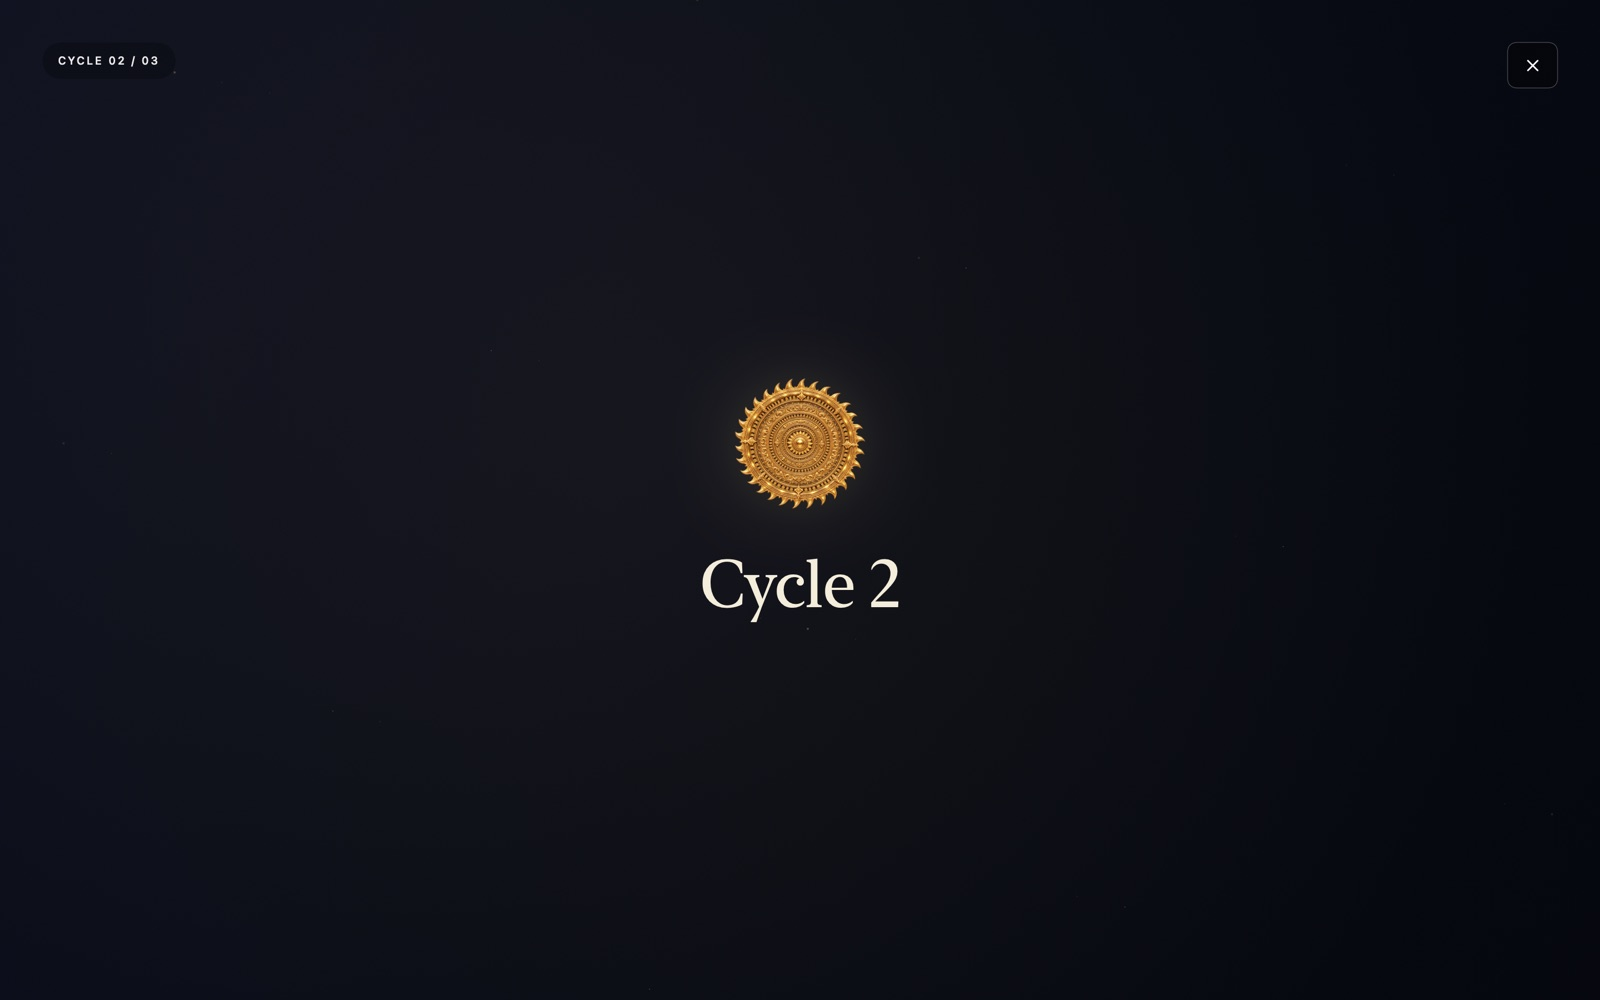
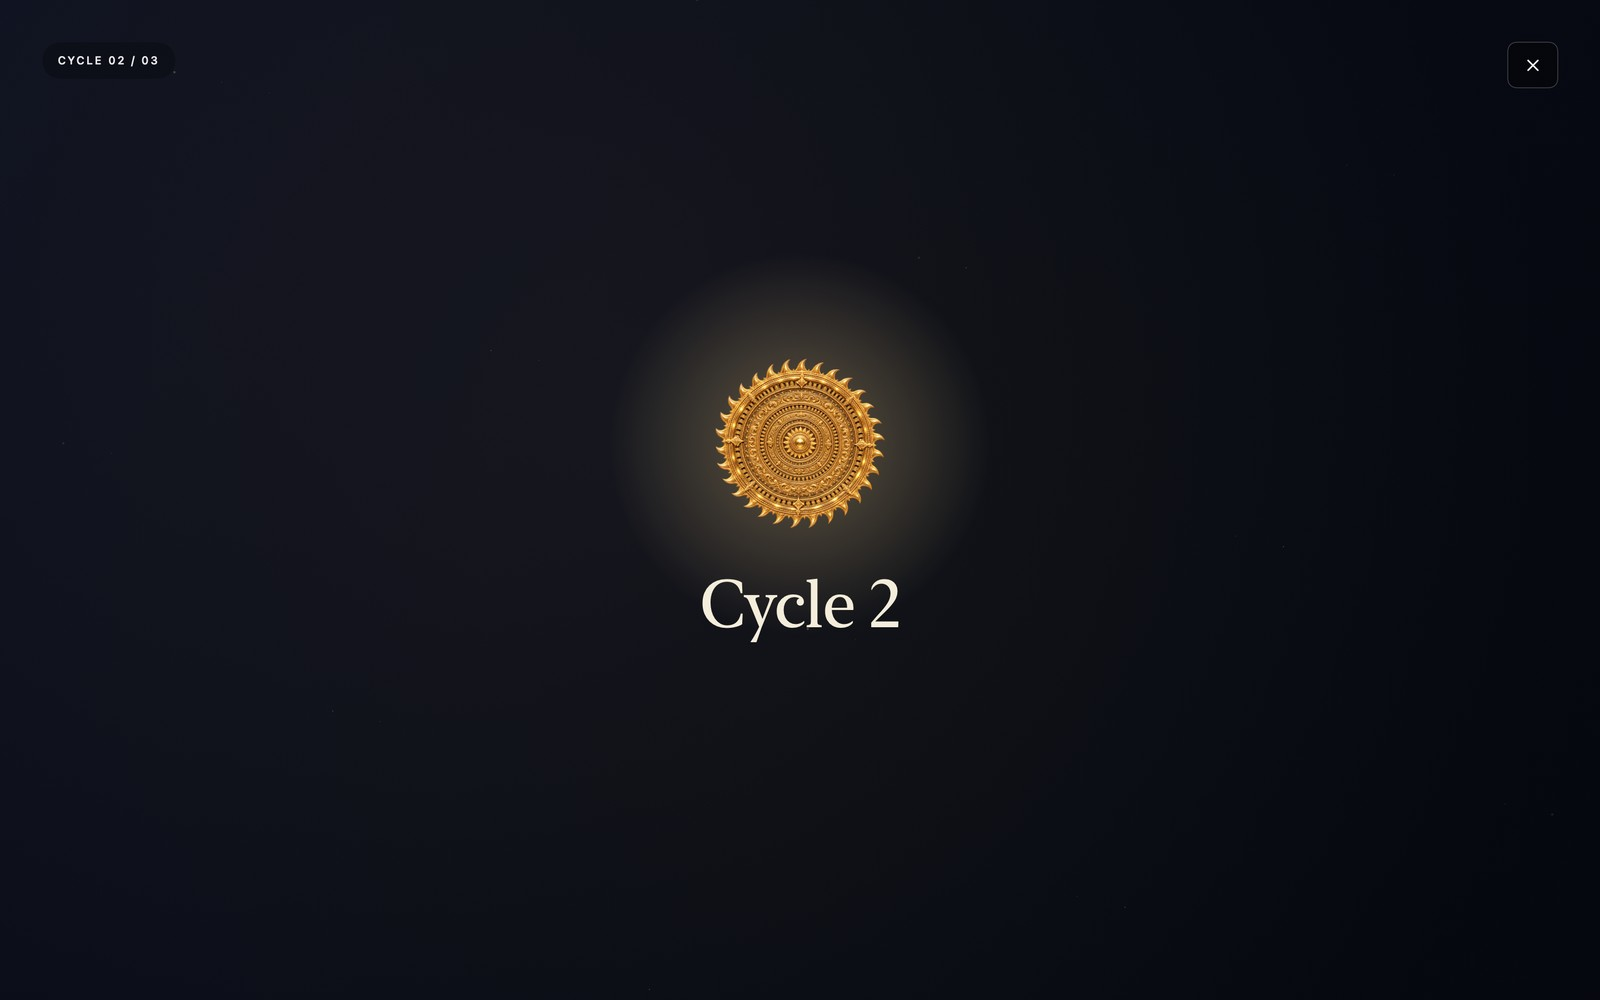
Exclude freestyle pauses from practice time and enhance cycle chakra

Changed region(s): [[0.4062, 0.31, 0.5938, 0.651]]

diff --git a/Tests/MeditationCoreTests/SessionEngineTests.swift b/Tests/MeditationCoreTests/SessionEngineTests.swift
@@ -736,9 +736,68 @@ final class SessionEngineTests {
         engine.nextStage(at: 4150)
         Check.equal(engine.phase, .complete)
         Check.equal(engine.completedCycles, 2)
-        // 4004 + 4 × 7 s in cycle 1, then 4 + 40 paused + 10 + 4 × 7 s in cycle 2; no card counts.
-        Check.equal(engine.activeSeconds, 4114)
-        Check.equal(engine.stepSeconds, [[4004, 7, 7, 7, 7], [54, 7, 7, 7, 7]])
+        // 4004 + 4 × 7 s in cycle 1, then 4 + 10 + 4 × 7 s in cycle 2; no pause or card counts.
+        Check.equal(engine.activeSeconds, 4074)
+        Check.equal(engine.stepSeconds, [[4004, 7, 7, 7, 7], [14, 7, 7, 7, 7]])
+    }
+
+    func testFreestylePausesNeverCountAsPractice() {
+        var engine = stageEngine()
+        engine.begin(try! SessionConfiguration(freestyleCycles: 1), at: 0)
+        engine.pause(at: 10)
+        Check.isFalse(engine.tick(at: 20))
+        Check.isFalse(engine.nextStage(at: 30))
+        engine.resume(at: 40)
+        Check.equal(engine.activeSeconds, 10)
+        Check.equal(engine.stepSeconds, [[10, 0, 0, 0, 0]])
+
+        engine.pause(at: 50)
+        engine.setPresent(false, at: 60)
+        Check.equal(engine.activeSeconds, 20)
+        engine.setPresent(true, at: 500)
+        engine.resume(at: 520)
+        Check.equal(engine.activeSeconds, 20)
+
+        // Leaving and returning never starts counting a freestyle pause.
+        engine.tick(at: 530)
+        engine.setPresent(false, at: 530.1)
+        engine.setPresent(true, at: 900)
+        engine.resume(at: 905)
+        Check.equal(engine.activeSeconds, 30)
+
+        engine.requestConfirmation(.restart, at: 910)
+        engine.cancelConfirmation(at: 950)
+        Check.equal(engine.phase, .running)
+        engine.tick(at: 960)
+        Check.equal(engine.activeSeconds, 45)
+        engine.pause(at: 970)
+        engine.requestConfirmation(.end, at: 980)
+        Check.equal(engine.activeSeconds, 55)
+        engine.cancelConfirmation(at: 1000)
+        Check.equal(engine.phase, .paused)
+        engine.resume(at: 1010)
+        Check.equal(engine.activeSeconds, 55)
+
+        // An unobserved gap pauses at the last sample; the pause after it is excluded too.
+        engine.tick(at: 1015)
+        engine.tick(at: 1100, maximumGap: 2.5)
+        Check.equal(engine.phase, .paused)
+        engine.resume(at: 1200)
+        Check.equal(engine.activeSeconds, 60)
+        for now in [1205.0, 1210, 1215, 1220, 1225] { engine.nextStage(at: now) }
+        Check.equal(engine.phase, .complete)
+        Check.equal(engine.activeSeconds, 85)
+        Check.equal(engine.stepSeconds, [[65, 5, 5, 5, 5]])
+        Check.equal(engine.stepSeconds.joined().reduce(0, +), engine.activeSeconds)
+
+        // Escape during the opening cards begins a paused step without counting that pause.
+        var cards = SessionEngine()
+        cards.begin(try! SessionConfiguration(freestyleCycles: 1), at: 0)
+        cards.pause(at: 1.5)
+        cards.resume(at: 100)
+        cards.tick(at: 105)
+        Check.equal(cards.activeSeconds, 5)
+        Check.equal(cards.stepSeconds, [[5, 0, 0, 0, 0]])
     }
 
     func testFreestylePreferencesKeepTheTimeLastEntered() {

diff --git a/Sources/MeditationCore/SessionEngine.swift b/Sources/MeditationCore/SessionEngine.swift
@@ -19,8 +19,8 @@ public struct SessionEngine: Sendable {
     public private(set) var completedCycles = 0
     public private(set) var remainingSeconds: TimeInterval = 60
     public private(set) var introductionRemaining: TimeInterval = 0
-    /// The time practiced: every running step, and every pause spent with the practice (`isPresent`).
-    /// Cards, confirmations, and time away never count.
+    /// The time practiced: every running step, plus pauses spent with a timed practice (`isPresent`).
+    /// Freestyle pauses, cards, confirmations, and time away never count.
     public private(set) var activeSeconds: TimeInterval = 0
     /// The same time, step by step: `stepSeconds[cycle][step]`, for every cycle begun so far.
     public private(set) var stepSeconds: [[TimeInterval]] = []
@@ -136,12 +136,12 @@ public struct SessionEngine: Sendable {
             accrue(until: now)
         }
         phase = .paused
-        // Time paused with a step is practice too, while the practitioner is here.
+        // In timed mode, time paused with a step is practice too, while the practitioner is here.
         pausedSince = isPresent ? now : nil
     }
 
     /// Pauses as of the last sample, for an absence noticed only now: the time since that sample never
-    /// counts. Paused time counts from now while the practitioner is here.
+    /// counts. In timed mode, paused time counts from now while the practitioner is here.
     public mutating func pauseAtLastSample(at now: TimeInterval) {
         if phase == .confirming { resumeOnCancel = false }
         if phase == .running {
@@ -153,7 +153,7 @@ public struct SessionEngine: Sendable {
 
     /// The practitioner has left the practice or come back to it: its window left the front or came
     /// back, or the Mac slept or woke, locked or unlocked. Leaving pauses a running practice as of its
-    /// last sample. A pause counts as practice only while they are here.
+    /// last sample. In timed mode, a pause counts as practice only while they are here.
     public mutating func setPresent(_ present: Bool, at now: TimeInterval) {
         guard present != isPresent else { return }
         if present {
@@ -227,7 +227,8 @@ public struct SessionEngine: Sendable {
     }
 
     private mutating func countPause(until now: TimeInterval) {
-        guard let since = pausedSince else { return }
+        // Freestyle already lets a step last indefinitely; pausing it stops all practice time.
+        guard configuration.isTimed, let since = pausedSince else { return }
         record(max(0, now - since))
         pausedSince = max(since, now)
     }

diff --git a/web/engine.js b/web/engine.js
@@ -184,8 +184,8 @@ export class SessionEngine {
     this.completedCycles = 0;
     this.remainingSeconds = 60;
     this.introductionRemaining = 0;
-    /// The time practiced: every running step, and every pause spent with the practice (isPresent).
-    /// Cards, confirmations, and time away never count.
+    /// The time practiced: every running step, plus pauses spent with a timed practice (isPresent).
+    /// Freestyle pauses, cards, confirmations, and time away never count.
     this.activeSeconds = 0;
     /// The same time, step by step: stepSeconds[cycle][step], for every cycle begun so far.
     this.stepSeconds = [];
@@ -285,12 +285,12 @@ export class SessionEngine {
       this.#accrue(now);
     }
     this.phase = "paused";
-    // Time paused with a step is practice too, while the practitioner is here.
+    // In timed mode, time paused with a step is practice too, while the practitioner is here.
     this.pausedSince = this.isPresent ? now : null;
   }
 
   /// Pauses as of the last sample, for an absence noticed only now: the time since that sample never
-  /// counts. Paused time counts from now while the practitioner is here.
+  /// counts. In timed mode, paused time counts from now while the practitioner is here.
   pauseAtLastSample(now) {
     if (this.phase === "confirming") this.resumeOnCancel = false;
     if (this.phase === "running") {
@@ -301,8 +301,8 @@ export class SessionEngine {
   }
 
   /// The practitioner has left the practice or come back to it: the page lost or regained focus, or
-  /// was hidden or shown. Leaving pauses a running practice as of its last sample. A pause counts as
-  /// practice only while they are here.
+  /// was hidden or shown. Leaving pauses a running practice as of its last sample. In timed mode, a
+  /// pause counts as practice only while they are here.
   setPresent(present, now) {
     if (present === this.isPresent) return;
     if (present) {
@@ -371,7 +371,8 @@ export class SessionEngine {
   }
 
   #countPause(now) {
-    if (this.pausedSince == null) return;
+    // Freestyle already lets a step last indefinitely; pausing it stops all practice time.
+    if (!this.configuration.isTimed || this.pausedSince == null) return;
     this.#record(Math.max(0, now - this.pausedSince));
     this.pausedSince = Math.max(this.pausedSince, now);
   }

diff --git a/web/app.js b/web/app.js
@@ -223,7 +223,7 @@ function pause(reason = PAUSED) {
 }
 
 /// Whether the practitioner is with the practice: the page is in front and has focus. Leaving pauses a
-/// running practice, and a pause counts as practice only while they're here (SessionModel.setPresent).
+/// running practice; only timed modes count pauses while they're here (SessionModel.setPresent).
 function setPresent(present) {
   const wasActive = engine.phase === "running" || engine.phase === "confirming";
   engine.setPresent(present, now());
@@ -642,7 +642,7 @@ function renderOverview() {
   } else {
     const count = engine.completedCycles;
     setText(byId("completed-cycles"), `${count} ${count === 1 ? "cycle" : "cycles"} completed`);
-    // Practiced includes time paused with a step; freestyle planned no time to compare it with.
+    // Timed practice includes pauses with a step; freestyle excludes pauses and has no planned time.
     setText(byId("practiced-time"), TimeText.elapsed(engine.activeSeconds));
     setText(byId("planned-time"), TimeText.elapsed(engine.configuration.plannedSeconds));
     byId("planned-divider").hidden = !engine.configuration.isTimed;
@@ -952,7 +952,7 @@ function timeRow(name, seconds, stepCount) {
 }
 
 /// For each cycle, the time practiced in each of its steps, its total, and its average per step; then
-/// all cycles together. Pauses with a step count; the cards and time away don't.
+/// all cycles together. Only timed modes count pauses with a step; cards and time away never count.
 function renderTimeSummary() {
   const cycles = engine.stepSeconds;
   const key = JSON.stringify(cycles);

diff --git a/Sources/SwadarshanChakra/Theme.swift b/Sources/SwadarshanChakra/Theme.swift
@@ -53,6 +53,20 @@ struct BrandMark: View {
     }
 }
 
+/// The shared gold aura behind the header and cycle card's chakra. It stays still as the image turns.
+struct BrandHalo: View {
+    let size: CGFloat
+
+    var body: some View {
+        Circle()
+            .fill(RadialGradient(colors: [Palette.gold.opacity(0.42), Palette.gold.opacity(0)],
+                                 center: .center, startRadius: 0, endRadius: size * 1.1))
+            .frame(width: size * 2.2, height: size * 2.2)
+            .allowsHitTesting(false)
+            .accessibilityHidden(true)
+    }
+}
+
 /// The header's chakra: it turns once a minute in a soft gold halo. It turns only while the window
 /// can be seen (`active`) and holds still with Reduce Motion.
 struct SpinningBrandMark: View {
@@ -66,11 +80,7 @@ struct SpinningBrandMark: View {
             .frame(width: size, height: size)
             .accessibilityHidden(true)
             .background {
-                Circle()
-                    .fill(RadialGradient(colors: [Palette.gold.opacity(0.42), Palette.gold.opacity(0)],
-                                         center: .center, startRadius: 0, endRadius: size * 1.1))
-                    .frame(width: size * 2.2, height: size * 2.2)
-                    .allowsHitTesting(false)
+                BrandHalo(size: size)
             }
     }
 }

diff --git a/web/app.css b/web/app.css
@@ -236,15 +236,20 @@ button { cursor: pointer; }
 }
 
 /* The chakra turns once a minute in a soft gold halo, as in the Mac app's header. */
-.brand-mark {
+.brand-mark,
+.cycle-mark {
   position: relative;
   isolation: isolate;
   flex: none;
+}
+
+.brand-mark {
   width: 48px;
   height: 48px;
 }
 
-.brand-mark::before {
+.brand-mark::before,
+.cycle-mark::before {
   content: "";
   position: absolute;
   inset: -60%;
@@ -1046,10 +1051,15 @@ button { cursor: pointer; }
   gap: 30px;
 }
 
+.cycle-mark {
+  width: 156px;
+  height: 156px;
+}
+
 .cycle-chakra {
-  width: 120px;
-  height: 120px;
-  filter: drop-shadow(0 0 36px rgba(217, 184, 117, 0.22));
+  display: block;
+  width: 100%;
+  height: 100%;
 }
 
 /* The chakra turns one fifth, one form, while the card is shown. */
@@ -1267,7 +1277,7 @@ button { cursor: pointer; }
 @media (max-width: 1099px), (max-height: 719px) {
   :root { --edge: 24px; }
   .cycle-card-center { gap: 22px; }
-  .cycle-chakra { width: 92px; height: 92px; }
+  .cycle-mark { width: 119.6px; height: 119.6px; }
   .cycle-card-title { font-size: 46px; }
   .stage-title { font-size: 29px; }
   .stage-context { font-size: 16px; }

diff --git a/Sources/SwadarshanChakra/CycleIntroductionView.swift b/Sources/SwadarshanChakra/CycleIntroductionView.swift
@@ -15,15 +15,16 @@ struct CycleIntroductionView: View {
             let size = geometry.size
             let compact = size.width < 1100 || size.height < 720
             let padding: CGFloat = compact ? 24 : 38
+            let chakraSize: CGFloat = (compact ? 92 : 120) * 1.3
             ZStack {
                 MeditationBackground()
 
                 VStack(spacing: compact ? 22 : 30) {
                     BrandMark(image: icon)
-                        .frame(width: compact ? 92 : 120, height: compact ? 92 : 120)
+                        .frame(width: chakraSize, height: chakraSize)
                         // The chakra turns one fifth, one form, while the card is shown.
                         .rotationEffect(.degrees(turned ? 72 : 0))
-                        .shadow(color: Palette.gold.opacity(0.22), radius: 36)
+                        .background { BrandHalo(size: chakraSize) }
                     Text("Cycle \(model.engine.currentCycle)")
                         .font(.system(size: compact ? 46 : 60, weight: .regular, design: .serif))
                         .foregroundColor(Palette.ivory)

diff --git a/Tests/MeditationCoreTests/CheckRunner.swift b/Tests/MeditationCoreTests/CheckRunner.swift
@@ -93,6 +93,7 @@ enum CoreCheckRunner {
             ("Total time preferences", suite.testTotalTimePreferencesRoundTripAndFallBack),
             ("Freestyle has no timer", suite.testFreestyleHasNoTimer),
             ("Freestyle steps", suite.testFreestyleStepsLastUntilThePractitionerMovesOn),
+            ("Freestyle pauses never count", suite.testFreestylePausesNeverCountAsPractice),
             ("Freestyle preferences", suite.testFreestylePreferencesKeepTheTimeLastEntered),
             ("History: calendar days", history.testCalendarDays),
             ("History: practice times", history.testPracticeTimes),

diff --git a/Sources/SwadarshanChakra/AppMain.swift b/Sources/SwadarshanChakra/AppMain.swift
@@ -443,7 +443,7 @@ final class AppDelegate: NSObject, NSApplicationDelegate, NSWindowDelegate {
     }
 
     /// The practitioner is with the practice while its window is in front and the Mac is awake and
-    /// unlocked. Leaving pauses a running practice; a pause counts as practice only while they're here.
+    /// unlocked. Leaving pauses a running practice; only timed modes count pauses while they're here.
     private func updatePresence() {
         model?.setPresent(wantsMeditationVisible && NSApp.isActive && window?.isKeyWindow == true && absences.isEmpty)
     }

diff --git a/Sources/SwadarshanChakra/SessionModel.swift b/Sources/SwadarshanChakra/SessionModel.swift
@@ -161,7 +161,7 @@ final class SessionModel: NSObject, ObservableObject {
     }
 
     /// Whether the practitioner is with the practice: the window is in front, and the Mac is awake and
-    /// unlocked. Leaving pauses a running practice, and a pause counts as practice only while they're here.
+    /// unlocked. Leaving pauses a running practice; only timed modes count pauses while they're here.
     func setPresent(_ present: Bool) {
         let wasActive = engine.phase == .running || engine.phase == .confirming
         engine.setPresent(present, at: Self.now)

diff --git a/Sources/SwadarshanChakra/TimeSummaryPanel.swift b/Sources/SwadarshanChakra/TimeSummaryPanel.swift
@@ -61,7 +61,7 @@ struct TimeSummaryPanel: View {
     }
 
     /// Complete: the cycles done, the time practiced against the time planned, and the way on.
-    /// Practiced includes time paused with a step; freestyle planned no time to compare it with.
+    /// Timed practice includes pauses with a step; freestyle excludes pauses and has no planned time.
     private func completion(_ engine: SessionEngine) -> some View {
         VStack(alignment: .leading, spacing: compact ? 14 : 18) {
             HStack(alignment: .center, spacing: compact ? 12 : 14) {

diff --git a/web/index.html b/web/index.html
@@ -300,7 +300,7 @@
         </button>
       </div>
       <div class="cycle-card-center">
-        <img id="cycle-chakra" class="cycle-chakra" src="images/icon.png" width="256" height="256" alt="">
+        <span class="cycle-mark" aria-hidden="true"><img id="cycle-chakra" class="cycle-chakra" src="images/chakra.webp" width="1254" height="1254" alt=""></span>
         <h2 id="cycle-card-title" class="cycle-card-title">Cycle 1</h2>
       </div>
     </section>
